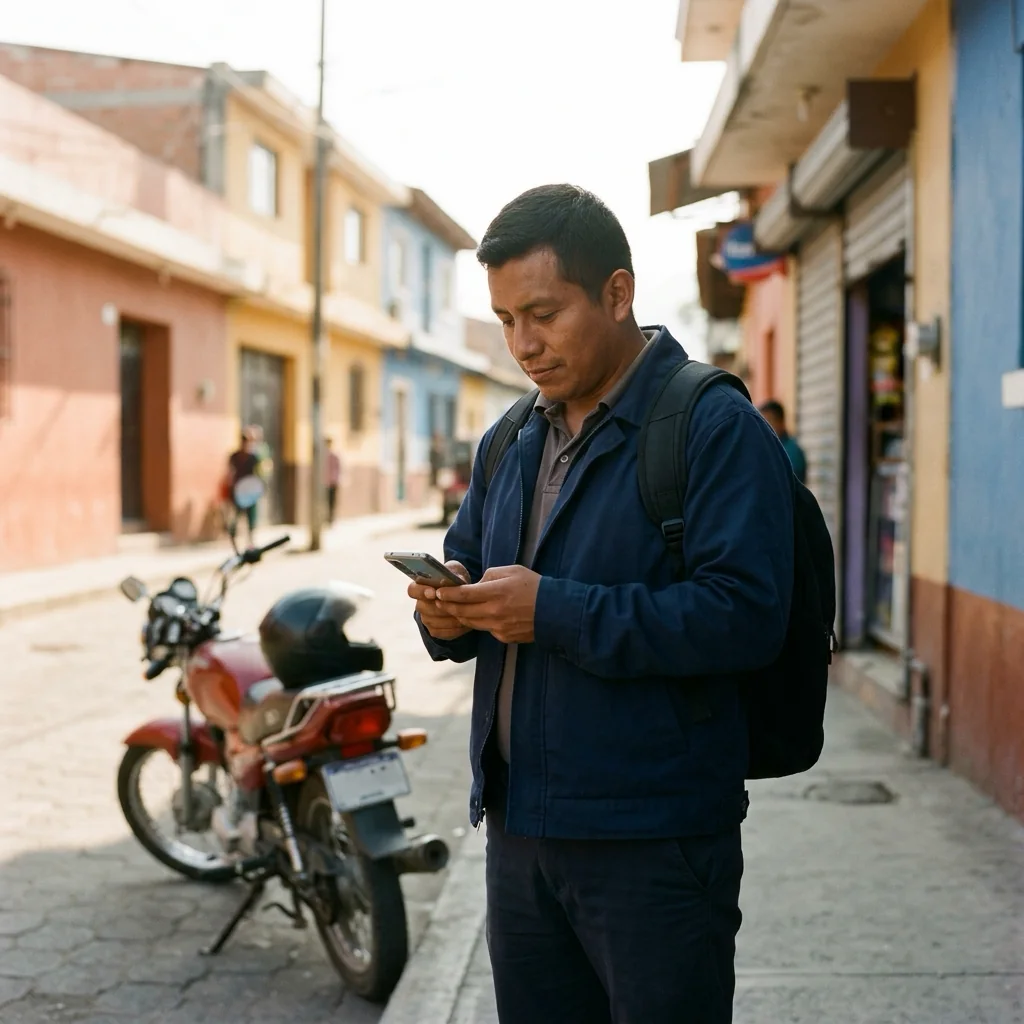
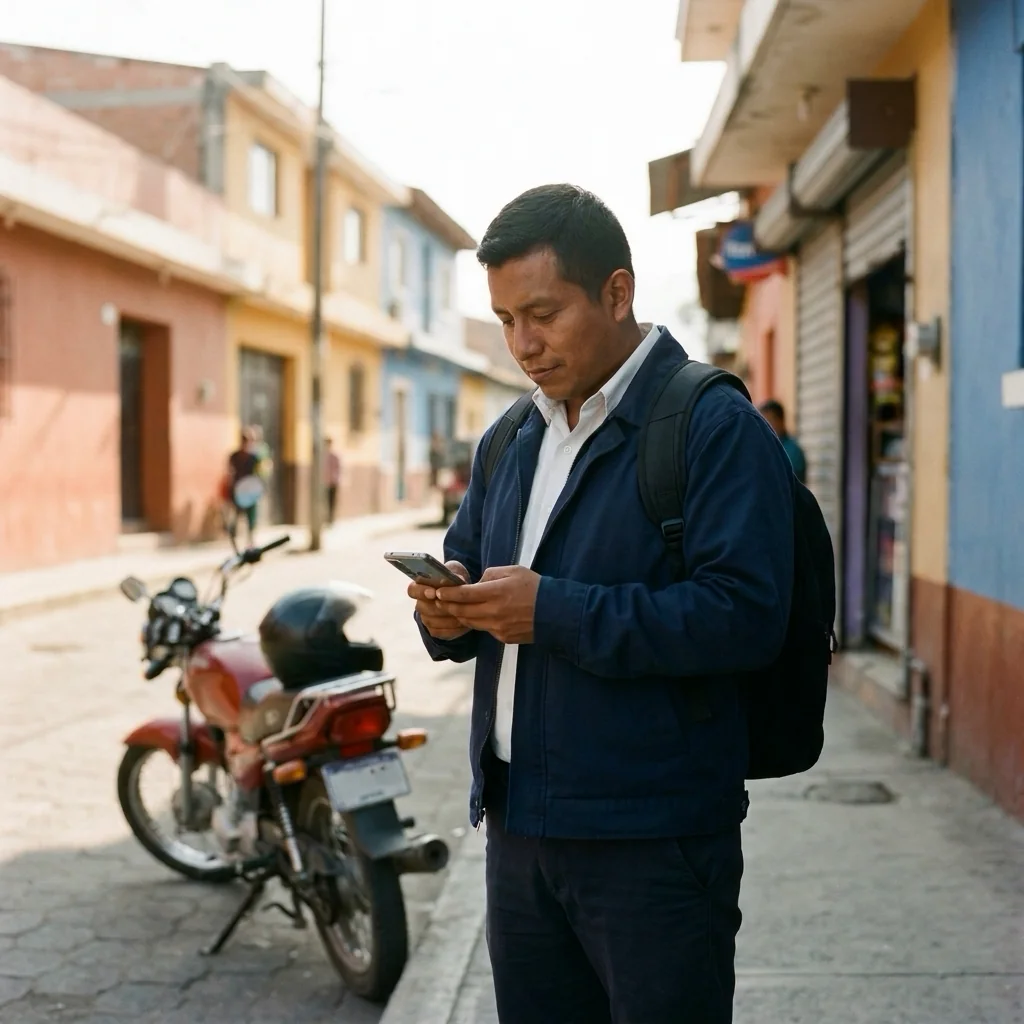
fix(work): coordinator persona wears a white shirt under the jacket (#48)
* fix(work): coordinator persona wears a white shirt under the jacket

Carlos's review: coordinators wear a white shirt under the navy jacket.
Same photo, edited with the Gemini API so only the shirt changes.

* fix(work): quieter persona footnote

Carlos: the archetype note drew too much attention. It drops to 13 px,
upright and narrower, below the persona cards.

---------

Changed region(s): [[0.4688, 0.3438, 0.625, 0.5625], [0.4688, 0.625, 0.5312, 0.75], [0.625, 0.3125, 0.6562, 0.3438]]

diff --git a/shared/data/cases/payments-credits.ts b/shared/data/cases/payments-credits.ts
@@ -120,7 +120,7 @@ export const paymentsCase: CaseStudy = {
           name: L('Coordinación', 'Coordination'),
           persona: {
             who: L('Luis · 29 años', 'Luis · 29'),
-            photo: screen('persona-luis', L('Luis consulta su teléfono en la calle, con su motocicleta detrás', 'Luis checks his phone on the street, his motorcycle behind him'), 1024, 1024),
+            photo: screen('persona-luis', L('Luis, con chumpa azul y camisa blanca, consulta su teléfono en la calle, con su motocicleta detrás', 'Luis, in a navy jacket and white shirt, checks his phone on the street, his motorcycle behind him'), 1024, 1024),
             context: L('En campo, desde el móvil.', 'In the field, on his phone.'),
             tasks: L('Pre-registro, solicitud, seguimiento de cada negocio asignado y aumento de bolsón.', 'Pre-registration, application, follow-up of each assigned business and the bolsón increase.'),
             quote: L('Lleno la solicitud en papel y después tengo que volver al negocio para saber en qué quedó.', 'I fill in the application on paper, then I have to go back to the business to find out where it stands.'),

diff --git a/app/components/case/Users.vue b/app/components/case/Users.vue
@@ -60,6 +60,6 @@ const t = useT()
         </div>
       </CoreReveal>
     </div>
-    <p v-if="scene.note" class="mt-8 max-w-[820px] text-base italic text-ink-soft">{{ scene.note[lang] }}</p>
+    <p v-if="scene.note" class="mt-6 max-w-[640px] text-[13px] leading-relaxed text-ink-soft">{{ scene.note[lang] }}</p>
   </CaseScene>
 </template>
